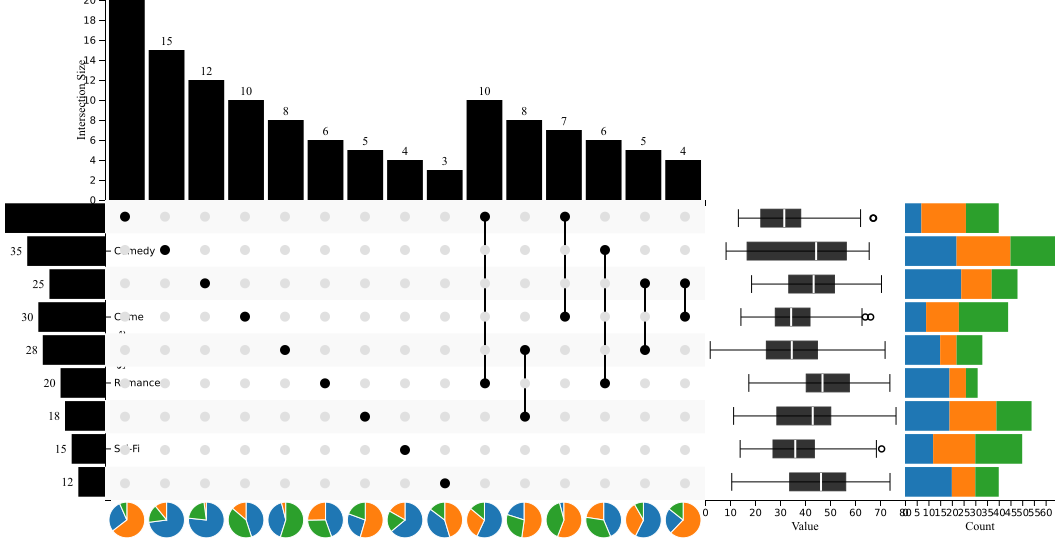
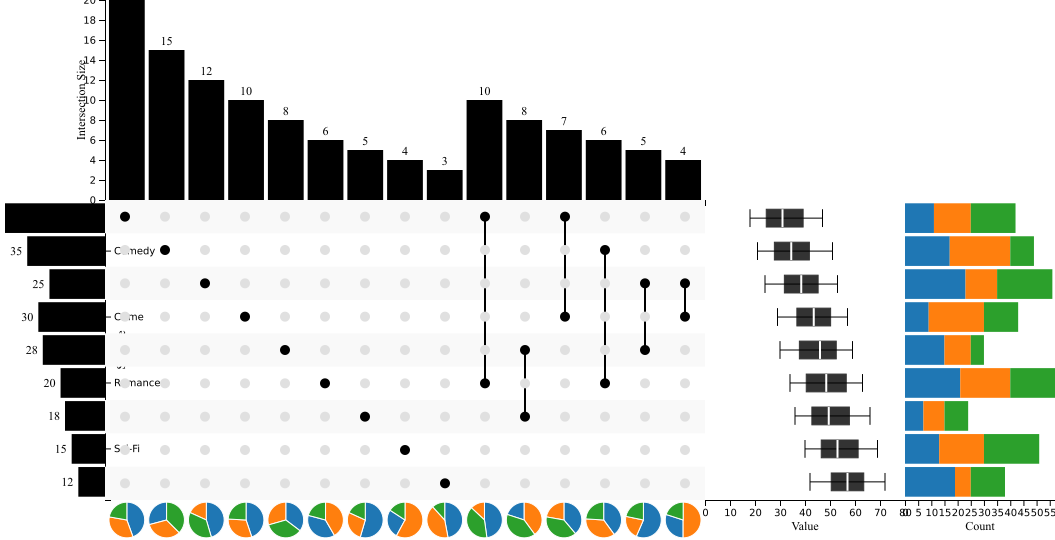
fix: remove `Math.random()` behavior & add CodeMirror lazy-loading

diff --git a/examples/upset.js b/examples/upset.js
@@ -62,13 +62,13 @@ const setSizeData = genres.map((genre) => {
   };
 });
 
-// Box Plot Data (Randomly generated for demonstration)
+// Box Plot Data
 const boxData = [];
-genres.forEach((genre) => {
+genres.forEach((genre, genreIndex) => {
   for (let i = 0; i < 20; i++) {
     boxData.push({
       genre: genre,
-      value: Math.random() * 50 + Math.random() * 30,
+      value: 18 + genreIndex * 3 + ((i * 7 + genreIndex * 5) % 31),
     });
   }
 });
@@ -76,12 +76,12 @@ genres.forEach((genre) => {
 // Stack Bar Chart Data
 const stackBarData = [];
 const types = ["Type A", "Type B", "Type C"];
-genres.forEach((genre) => {
-  types.forEach((type) => {
+genres.forEach((genre, genreIndex) => {
+  types.forEach((type, typeIndex) => {
     stackBarData.push({
       genre: genre,
       type: type,
-      count: Math.floor(Math.random() * 20) + 5,
+      count: 5 + (((genreIndex + 1) * (typeIndex + 2) * 3) % 20),
     });
   });
 });
@@ -167,11 +167,11 @@ const stackBarChart = chart({
 // 6. Pie Chart Row (below Matrix)
 // Create fake data for pie charts
 const pieDataMap = {};
-intersections.forEach((d) => {
+intersections.forEach((d, index) => {
   pieDataMap[d.id] = [
-    { category: "A", value: Math.random() * 10 },
-    { category: "B", value: Math.random() * 10 },
-    { category: "C", value: Math.random() * 10 },
+    { category: "A", value: 4 + ((index * 3) % 10) },
+    { category: "B", value: 3 + ((index * 5) % 9) },
+    { category: "C", value: 2 + ((index * 7) % 8) },
   ];
 });
 
